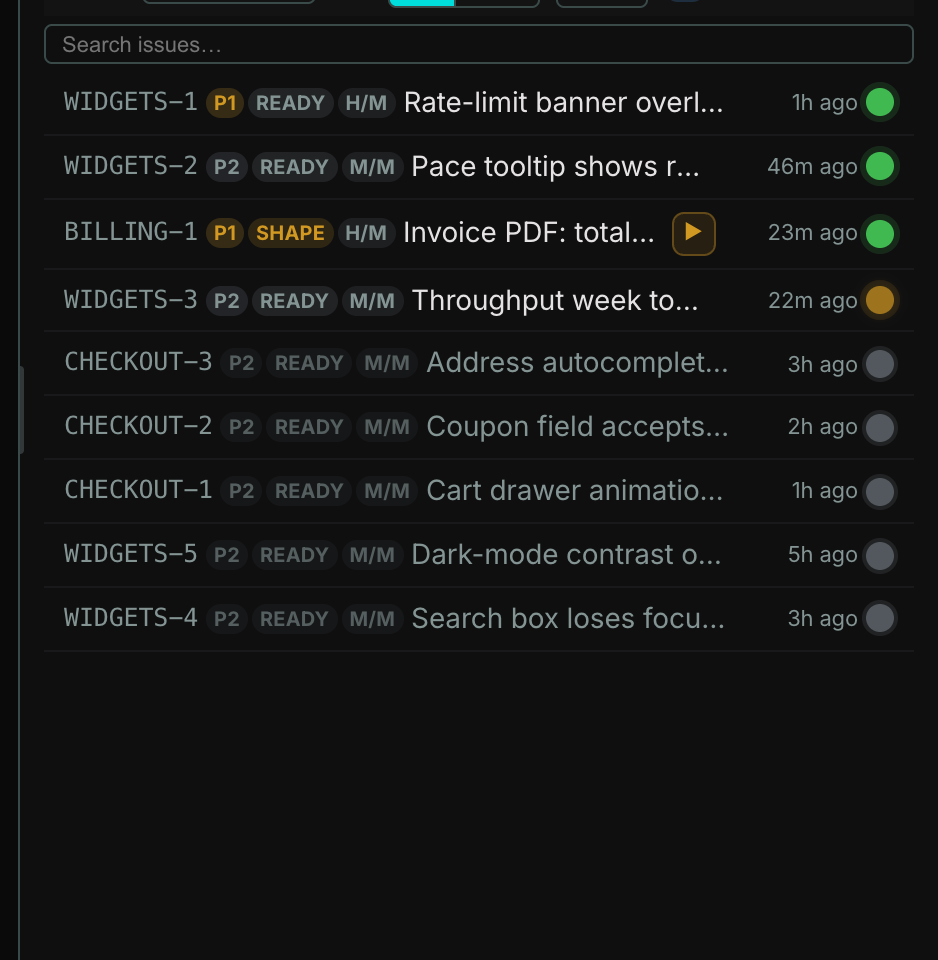
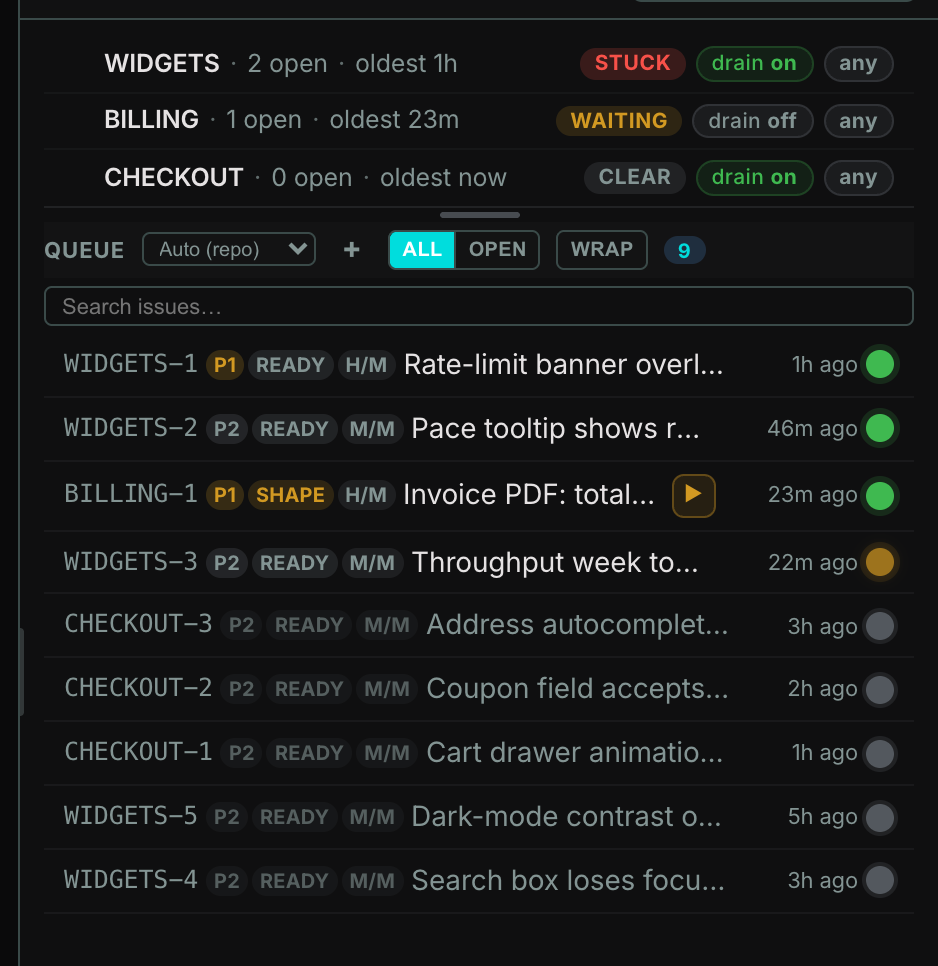
feat(product-story): hero video, usage/advisor/throughput/queue shots, gallery index
V-01 fleet-scan hero clip (21.7s) with poster; synthetic-HOME captures
of usage windows, Model Advisor, throughput analyzer, and the retaken
work-queue board; gallery index README with per-asset alt text (queue
and F2 rows corrected to match actual content); harness fixes (reload
localStorage seeding via on-new-document override, faster fade-in) and
synthetic codex usage seeding.

diff --git a/scripts/story-capture/flows/shots-flow.js b/scripts/story-capture/flows/shots-flow.js
@@ -1,0 +1,46 @@
+// S-F3d: Flow canvas with arranged nodes and edges.
+//
+// Flow popout mode. Expands the repo clusters so child sessions + edges show,
+// runs Organize to line them up, and sets a readable zoom. Cursor-led so the
+// canvas reads as a real arranged board.
+'use strict';
+
+module.exports = {
+  path: '/static/index.html?demo=1&ccc_popout=flow',
+  fixtureBase: '/docs/demo/api',
+  localStorage: {
+    'ccc-last-seen-version': 'demo',
+    'ccc-whats-new-dismissed-version': 'demo',
+    'ccc-pwa-install-dismissed': '9999999999999',
+    'ccc-telemetry-bar-dismissed': '1',
+    'ccc-flow-zoom': '0.55',
+  },
+  async run(ctx) {
+    await ctx.pause(1500);
+    await ctx.eval(() => {
+      const b = (a) => document.querySelector('[data-flow-action="' + a + '"]');
+      if (b('expand-all')) b('expand-all').click();
+    });
+    await ctx.pause(900);
+    await ctx.eval(() => {
+      const b = (a) => document.querySelector('[data-flow-action="' + a + '"]');
+      if (b('organize')) b('organize').click();
+    });
+    await ctx.pause(1400);
+    // Reset pan so the arranged widgets-api cluster + its edges sit high and
+    // centred, and clear the transient "Organized" op-toast.
+    await ctx.eval(() => {
+      const board = document.getElementById('flowBoard');
+      if (board) { board.scrollLeft = 120; board.scrollTop = 190; }
+    });
+    await ctx.pause(500);
+    // The Organize op-toast is a class-less fixed div — match it by text.
+    await ctx.eval(() => {
+      document.querySelectorAll('body > div').forEach(el => {
+        if (/Organized\s*—\s*tight/i.test(el.textContent || '')) el.remove();
+      });
+    });
+    await ctx.pause(300);
+    await ctx.suppressBanner();
+  },
+};

diff --git a/scripts/story-capture/flows/v2-fleet-scan.js b/scripts/story-capture/flows/v2-fleet-scan.js
@@ -1,0 +1,45 @@
+// V-01 (HERO) v2 — scan the fleet, tightened to the 15-25s hero budget.
+//
+// Same two-scene story as flows/fleet-scan.js (list scan -> kanban board) but
+// with trimmed pauses and a shorter reload settle so the clip lands ~18-20s
+// with no dead time. Scene 1 sweeps the live rows (Claude / Codex / Gemini
+// engine icons, status pills, repo chips, project tree); Scene 2 cuts to the
+// same fleet as a board, pans the columns, and opens one live session.
+'use strict';
+const { LIST, BOARD } = require('./_seeds.js');
+
+module.exports = {
+  path: '/static/index.html?demo=1',
+  fixtureBase: '/docs/demo/api',
+  localStorage: LIST,
+  lead: 1300,
+  tail: 1400,
+  async run(ctx) {
+    // Scene 1: sweep the fleet rows (engine icons + status pills + repo chips).
+    await ctx.move('.conv-item', { duration: 600 });
+    await ctx.pause(420);
+    await ctx.move('.conv-item:nth-of-type(3)', { duration: 520 }).catch(() => {});
+    await ctx.pause(380);
+    await ctx.move('.conv-item:nth-of-type(5)', { duration: 520 }).catch(() => {});
+    await ctx.pause(360);
+    // Scroll the sidebar list to reveal more of the fleet + project tree.
+    await ctx.scrollEl('.conv-list, #convList', 300, { duration: 850 });
+    await ctx.pause(520);
+    await ctx.scrollEl('.conv-list, #convList', -300, { duration: 650 });
+    await ctx.pause(300);
+
+    // Scene 2: same fleet as a board (short settle — the demo polls forever).
+    await ctx.reloadWith(BOARD, { cursorAt: { x: 500, y: 420 }, settleMs: 2600 });
+    await ctx.pause(700);
+    // Pan across the columns (Icebox / In Progress / Waiting come into view).
+    await ctx.scrollEl('#kanbanBoard', 0, { dx: 430, duration: 1300 });
+    await ctx.pause(560);
+    // Hover a live card, then open it — transcript + composer load.
+    const card = '#kanbanBoard .kanban-card[data-id="11111111-1111-4aaa-aaaa-000000000001"]';
+    await ctx.move(card, { duration: 600 });
+    await ctx.pause(400);
+    await ctx.click(card, { duration: 250 });
+    await ctx.pause(1500);
+    await ctx.suppressBanner();
+  },
+};

diff --git a/scripts/story-capture/lib.js b/scripts/story-capture/lib.js
@@ -390,7 +390,7 @@ function makeCtx(page) {
     // reload, settle, re-suppress the banner, re-install the cursor, fade
     // back in. Used where the real UI has no click affordance to change a
     // persisted preference (e.g. list -> board view).
-    async reloadWith(entries, { settleMs = 4000, cursorAt } = {}) {
+    async reloadWith(entries, { settleMs = 1200, cursorAt } = {}) {
       const pos = await page.evaluate(() => {
         const d = document.createElement('div');
         d.id = '__cap_fade__';
@@ -402,16 +402,29 @@ function makeCtx(page) {
         return { x: s.x, y: s.y };
       });
       await sleep(420);
-      await page.evaluate((data) => {
-        for (const [k, v] of Object.entries(data || {})) {
-          localStorage.setItem(k, typeof v === 'string' ? v : JSON.stringify(v));
-        }
+      // The initial seed was registered with evaluateOnNewDocument, which
+      // re-runs on EVERY navigation — including this reload — and would
+      // clobber plain localStorage writes. Register the overrides as a
+      // second on-new-document script: it runs after the first one, so the
+      // overrides win on this reload and any later ones.
+      await page.evaluateOnNewDocument((data) => {
+        try {
+          for (const [k, v] of Object.entries(data || {})) {
+            localStorage.setItem(k, typeof v === 'string' ? v : JSON.stringify(v));
+          }
+        } catch (_) { /* pre-navigation localStorage unavailable — ignore */ }
       }, entries || {});
       await Promise.all([
         page.waitForNavigation({ waitUntil: 'load', timeout: 30000 }),
         page.evaluate(() => location.reload()),
       ]);
-      await page.waitForNetworkIdle({ idleTime: 750, timeout: settleMs }).catch(() => {});
+      // Fade back in as soon as real content is on screen — a long dark hold
+      // reads as dead time in the recording.
+      await page.waitForFunction(
+        () => document.querySelector('.conv-item, .kanban-card, .flow-node'),
+        { timeout: 5000 }
+      ).catch(() => {});
+      await page.waitForNetworkIdle({ idleTime: 400, timeout: settleMs }).catch(() => {});
       await suppressDemoBanner(page);
       const at = cursorAt || pos;
       await installCursor(page, at.x, at.y);

diff --git a/scripts/story-capture/seeds/local-build-home.py b/scripts/story-capture/seeds/local-build-home.py
@@ -199,13 +199,20 @@ def write_usage(state_dir):
         seven = round(18 + frac * 45, 1)            # 18 -> 63 %
         sonnet = round(9 + frac * 29, 1)            # 9 -> 38 %
         five = round(12 + (frac * 61) % 55, 1)      # sawtooth-ish session window
+        codex = {
+            "session": {"pct": round(6 + frac * 22, 1),
+                        "resets_at": iso_s(five_reset), "window_minutes": 300},
+            "weekly": {"pct": round(11 + frac * 23, 1),
+                       "resets_at": iso_s(weekly_reset), "window_minutes": 10080},
+            "plan_type": "plus",
+        }
         snaps.append({
             "ts": iso_s(ts), "source": "native",
             "five_hour": {"utilization": five, "resets_at": iso_s(five_reset)},
             "seven_day": {"utilization": seven, "resets_at": iso_s(weekly_reset)},
             "seven_day_sonnet": {"utilization": sonnet, "resets_at": iso_s(weekly_reset)},
             "seven_day_fable": {"utilization": None, "resets_at": None},
-            "codex": None,
+            "codex": codex,
         })
     with (udir / "usage-snapshots.jsonl").open("w", encoding="utf-8") as fh:
         for s in snaps:

diff --git a/scripts/story-capture/README.md b/scripts/story-capture/README.md
@@ -1,0 +1,109 @@
+# story-capture — screenshot & video harness for the product story
+
+Repeatable captures of the real CCC UI running on the seeded, privacy-safe
+demo fixtures (`docs/demo/api/*.json` — 16 fake sessions, 3 fake repos, fake
+issues). Produces crisp 2x stills and cursor-led H.264 MP4 clips with posters.
+
+## Serve the app first
+
+Serve the **repo root** (not `docs/`) so both targets are reachable:
+
+```bash
+python3 -m http.server 8877 --directory /path/to/claude-command-center
+```
+
+Two capture targets:
+
+| Target | URL path | What it is |
+|---|---|---|
+| **Current UI + demo fixtures** (default for story assets) | `/static/index.html?demo=1` + `--fixture-base /docs/demo/api` | Today's `static/` bundle; `installDemoMode()` in app.js serves every `/api/*` GET from the fixture JSONs and stubs POSTs with `{ok:true, demo:true}`. |
+| **Published demo bundle** | `/docs/demo/` | The frozen GH-Pages snapshot (older app.js copy). Its index.html/app.js are version-skewed: board/flow views don't render there. Use for parity checks only. |
+
+Base URL defaults to `http://127.0.0.1:8877` (override with `CAP_BASE` or `--base`).
+
+## Screenshots — `shot.js`
+
+```bash
+node scripts/story-capture/shot.js \
+  --flow scripts/story-capture/flows/overview.js \
+  --out docs/product-story/assets/shots/S-OVR.png --scale 2
+```
+
+Defaults: viewport `1440x900`, `deviceScaleFactor 2` (=> 2880x1800 px).
+Options: `--url <path>`, `--fixture-base <path>`, `--ls <seed.json>`
+(localStorage seeded before app scripts run), `--flow <module>` (run a flow
+before capture), `--actions '<json>'` (inline steps: `wait`, `waitFor`,
+`click`, `move`, `drag`, `scroll`, `type`), `--viewport WxH`, `--scale N`,
+`--settle ms`, `--wait ms`, `--full-page`, `--keep-banner`, `--cursor`.
+
+## Videos — `record.js`
+
+```bash
+node scripts/story-capture/record.js \
+  --flow scripts/story-capture/flows/kanban-drag.js \
+  --out docs/product-story/assets/video/V-06-kanban-drag.mp4 \
+  --poster docs/product-story/assets/video/posters/V-06.png
+```
+
+Records `page.screencast()` (WebM/VP9) then transcodes with ffmpeg to MP4
+(H.264, yuv420p, `+faststart`, no audio) and extracts a poster PNG.
+**ffmpeg is required** — both for the transcode and by puppeteer's screencast
+encoder itself. Video is 1440x900 @1x, 30 fps (stills use 2x; 2x video is
+needlessly heavy). Options: `--viewport`, `--fps`, `--crf`, `--lead ms`,
+`--tail ms`, `--poster-at s`, `--keep-webm`, `--ls`, `--fixture-base`.
+
+A synthetic ~20px pointer (dark, soft shadow) is injected and animated with
+easing in sync with real `page.mouse` events; clicks show a ripple; drags
+show a grab/press state.
+
+## Flows
+
+A flow is a small JS module in `flows/`:
+
+```js
+module.exports = {
+  path: '/static/index.html?demo=1',
+  fixtureBase: '/docs/demo/api',
+  viewport: '1440x900',            // optional
+  localStorage: { ... },           // seeded before app scripts run
+  lead: 1500, tail: 1700,          // establish / settle ms (record.js)
+  async run(ctx) { ... },
+};
+```
+
+`ctx` helpers: `move(selOrPt, {duration})`, `click(selOrPt)`,
+`dragHTML5(fromSel, toSel, {duration, hold, via})` (synthetic HTML5 DnD —
+puppeteer's mouse can't start native drags; `via` routes through a waypoint
+so drag-revealed drop zones appear), `pressDrag(from, to)` (pointer-event
+drags: Flow nodes, resizers), `scrollEl(sel, dy, {dx})`, `type(sel, text)`,
+`findByText(scopeSel, text)`, `waitFor(sel)`, `pause(ms)`, `eval(fn)`,
+`suppressBanner()`, `allowBanner()`, and
+`reloadWith(lsEntries)` — a fade-out scene cut that reloads with different
+localStorage (used where the UI has no click affordance for a persisted
+preference, e.g. list -> board view).
+
+## Seeds (`seeds/*.json`, mirrored in `flows/_seeds.js`)
+
+- `clean.json` — suppress first-run chrome: What's New modal
+  (`ccc-last-seen-version: "demo"` matches the version fixture), PWA install
+  card, telemetry bar.
+- `board.json` — clean + kanban board view (`ccc-session-view: board`),
+  sidebar widened to 1020px, right utilities rail collapsed.
+
+Useful extra keys: `ccc-sidebar-width`, `ccc-status-rail-collapsed`,
+`ccc-flow-zoom`, `ccc-column-overrides`.
+
+## Gotchas (hard-won)
+
+- CCC polls forever: never wait on `networkidle2`; the harness uses
+  `waitForNetworkIdle({idleTime, timeout})` with a bounded timeout.
+- localStorage must be seeded via `evaluateOnNewDocument` (before app
+  scripts). Those scripts re-run on every navigation — `reloadWith`
+  registers its overrides as a *second* on-new-document script so they win.
+- Kanban card moves are client-side in demo mode (`columnOverrides` +
+  localStorage) — drags genuinely work and persist.
+- The search box shows a one-time "Build a history index?" popover when the
+  history fixture reports no index; pre-set
+  `window._historyIndexStatus = {exists: true}` before typing.
+- Chrome for Testing v149 crashes on screenshot on macOS ARM; the harness
+  prefers installed Chrome/Chrome Beta (same as snapshot.js, OPS-4).

diff --git a/docs/product-story/assets/README.md b/docs/product-story/assets/README.md
@@ -1,0 +1,44 @@
+# Product-story assets — gallery index
+
+Captures of the real CCC UI (v5.6.0) running on the seeded, privacy-safe demo
+fixtures (`docs/demo/api` — 16 fake sessions, 3 fake repos, fake GitHub
+issues; all data invented, no real user content). Captured 2026-07-10 with
+`scripts/story-capture/` (see its README for how to reproduce or add assets).
+
+Videos are H.264 MP4 (yuv420p, faststart, no audio), 30 fps, 1440x900 unless
+noted, each with a matching poster in `video/posters/`. Screenshots are 2x
+(retina) PNGs.
+
+## Screenshots (`shots/`)
+
+| ID | File | What it shows | Dimensions | Alt text |
+|---|---|---|---|---|
+| S-OVR | `shots/S-OVR.png` | Full dashboard overview: kanban board (GH Issues, Needs Attention, Icebox, In Progress columns with seeded cards) beside an open session transcript with composer, branch chip, and health footer. | 2880x1800 (2x) | CCC dashboard in dark mode: a kanban board of coding-agent sessions grouped by stage, next to an open session transcript with a reply composer. |
+| S-F5a | `shots/S-F5a.png` | Work queue board (synthetic-HOME server): three queues with health states (STUCK, WAITING, CLEAR) above the ticket list with priorities and ages. | 938x966 | Work queue panel: three named queues with health badges, above a list of open tickets with priority pills and last-activity times. |
+| S-F5b | `shots/S-F5b.png` | Queue health strip (synthetic-HOME server): WIDGETS flagged STUCK with drain on, BILLING WAITING, CHECKOUT CLEAR. | 894x196 | Compact queue health strip showing one queue flagged stuck, one waiting, one clear. |
+| S-F2c | `shots/S-F2c.png` | Usage and rate-limit windows (synthetic-HOME server): Claude weekly 63% and Codex weekly 34% with pace projections and reset times. | 2728x380 | Usage strip showing Claude and Codex weekly limit bars with projected usage at reset. |
+| S-F2d | `shots/S-F2d.png` | Model Advisor modal (synthetic-HOME server): live up/downgrade recommendations with scores and one-click Switch now, above the scanned-sessions verdict table. | 2880x1800 (2x) | Model Advisor dialog listing per-session model recommendations with scores, switch buttons, and a verdict table. |
+| S-F2e | `shots/S-F2e.png` | Token Throughput Analyzer (synthetic-HOME server): quota used, daily burn, cache savings, and the 3-hour cache-adjusted burn chart with weekly projection. | 2880x1800 (2x) | Throughput dashboard with usage stats tiles and a bar chart of token burn across the week with a projected quota line. |
+
+## Videos (`video/`, posters in `video/posters/`)
+
+| ID | File | What it shows | Duration / dimensions / size | Alt text |
+|---|---|---|---|---|
+| V-01 (hero) | `V-01-fleet-scan.mp4` | Scan the fleet: list view with Claude/Codex/Gemini engine icons, live status pills, and the project tree; scene-cut to the same fleet as a kanban board; pan across columns and open a live session — transcript and composer load. | 21.7s · 1440x900 · 885 KB | Cursor sweeps a list of live coding-agent sessions, then the same sessions appear as a kanban board; a card is opened and its transcript loads. |
+| V-03 | `V-03-attention.mp4` | Spot the session waiting on you: pan to the Waiting column, hover the NEEDS APPROVAL card with its inline "Send to terminal" answer box, open it. | 11.2s · 1440x900 · 533 KB | A kanban card labeled Needs Approval is hovered and opened; the session transcript pane appears. |
+| V-06 | `V-06-kanban-drag.mp4` | Kanban drag: the parked Icebox card is dragged into In Progress (client-side move, persists), then a session card is opened. | 13.7s · 1440x900 · 545 KB | A card is dragged from the Icebox column and dropped into In Progress; a session is then opened. |
+| V-07 | `V-07-flow-canvas.mp4` | Flow canvas: expand repo clusters, Organize lays out the session nodes with edges, drag a node to a new spot, zoom in. | 19.5s · 1440x900 · 686 KB | A node-and-edge canvas of repos and sessions is auto-organized; one node is dragged and the view zooms in. |
+| V-08 | `V-08-split-pane.mp4` | Split pane: with one transcript open, a second session row is dragged onto the conversation's right edge — two transcripts side by side. | 14.1s · 1440x900 · 500 KB | A session row is dragged onto the right edge of an open conversation, splitting the view into two transcripts. |
+| V-09 | `V-09-search.mp4` | Search: typing "stripe" filters 24 rows down to the two matching sessions; the right one opens. | 10.6s · 1440x900 · 303 KB | Typing in the search box filters the session list; a filtered result is clicked and its transcript opens. |
+| V-14 | `V-14-issue-to-session.mp4` | Issue to session: hover a GH issue card, click "Start session" — the optimistic spawn UI appears (new "spawning…" card in In Progress and a fresh session pane). Demo-mode note: the POST is stubbed, so no real agent starts; the clip shows the UI's genuine immediate response. | 11.0s · 1440x900 · 282 KB | Clicking Start session on a GitHub issue card creates a new spawning session card and opens an empty session pane. |
+| V-15 | `V-15-mobile.mp4` | Mobile walkthrough (390x844): scroll the session list, open a session full-screen, read the transcript, tap Back to the list. | 14.2s · 390x844 · 235 KB | On a phone-sized screen, a session list is scrolled, a session opens full screen, and the Back button returns to the list. |
+
+## Skipped flows (do not fake)
+
+- **V-04 context meter** — the demo fixtures carry no context/token fields, so
+  no context meters render; nothing truthful to show.
+- **V-05 pinning** — pin state is server-derived; the demo stub accepts the
+  POST but the next poll reverts it, so there is no persistent visible outcome.
+- **V-11 group chat** — the group-chat fixtures are empty
+  (`docs/demo/api/group-chats/active.json` = `{"chats": []}`); no chat to open.
+  Unblock by seeding a group-chat fixture.